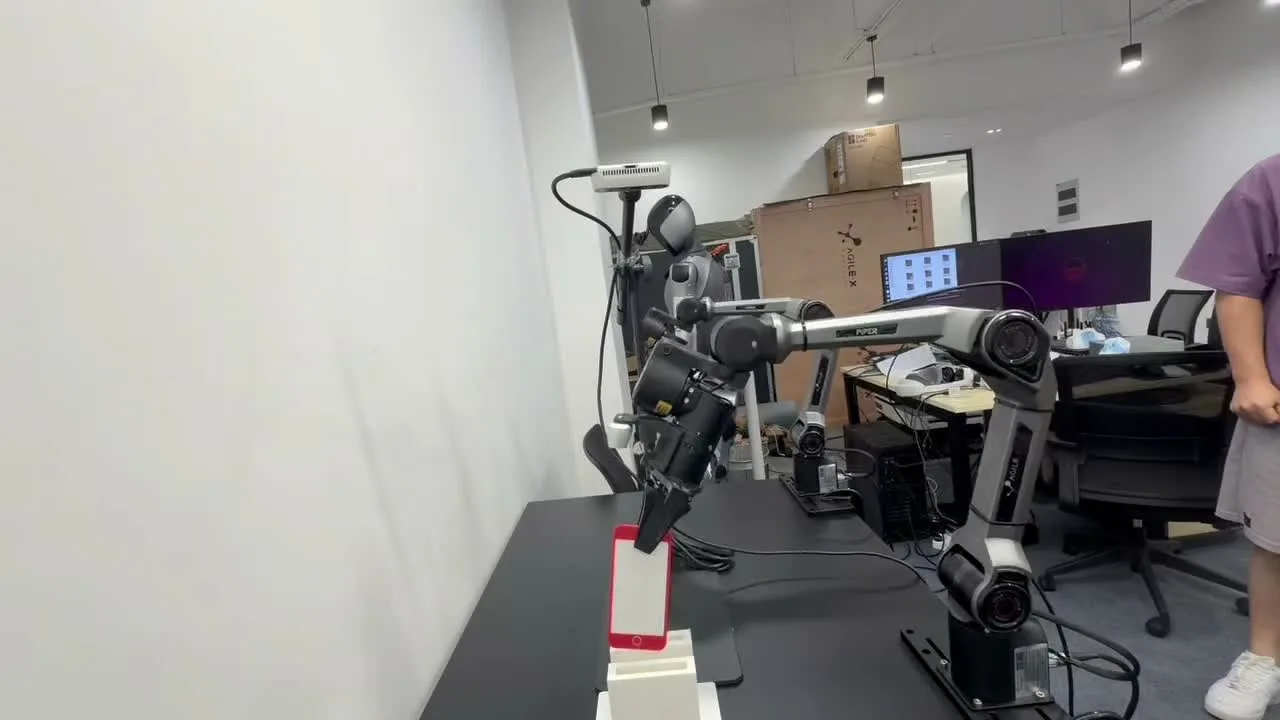
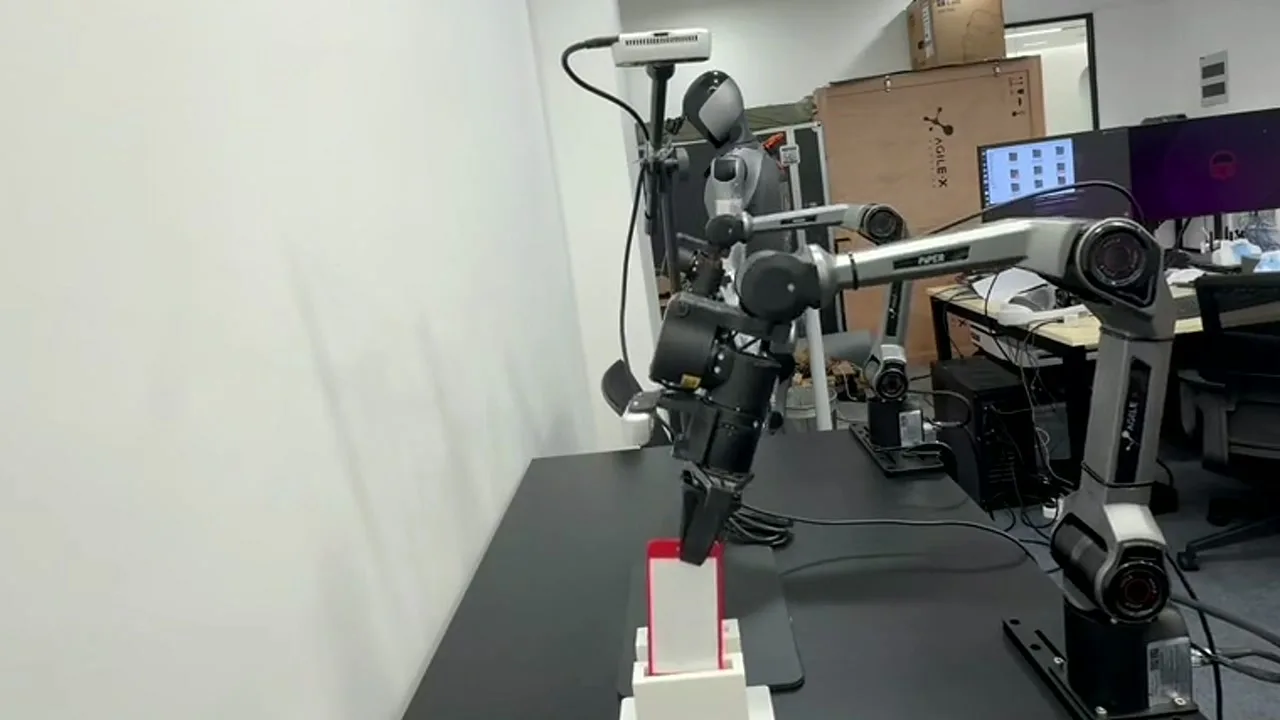
Polish demo9 presentation

diff --git a/index.html b/index.html
@@ -1551,10 +1551,10 @@
         </div>
         <div class="featured-grid">
           <a class="feature-card" href="#demo-09">
-            <div class="feature-thumb"><img src="assets/posters/demo9.webp" alt="pi*0.6 ReCap 手机插拔精细操作封面"></div>
+            <div class="feature-thumb"><img src="assets/posters/demo9.webp" alt="π0.6 ReCap 手机插拔精细操作封面"></div>
             <div class="feature-meta"><span>Demo 09</span><span>01:02</span></div>
-            <h3 data-i18n="demo9Title">pi*0.6 ReCap 手机插拔精细操作</h3>
-            <p data-i18n="demo9Desc">基于 pi*0.6 ReCap 强化学习完成手机接口插入与拔出，验证真实平台在小间隙、强接触约束下的精细操作稳定性。</p>
+            <h3 data-i18n="demo9Title">π0.6 ReCap 手机插拔精细操作</h3>
+            <p data-i18n="demo9Desc">基于 π0.6 ReCap 强化学习完成手机接口插入与拔出，验证真实平台在小间隙、强接触约束下的精细操作稳定性。</p>
           </a>
           <a class="feature-card" href="#demo-07">
             <div class="feature-thumb"><img src="assets/posters/demo7.webp" alt="Minimax 井字棋 + π0.5 棋子放置封面"></div>
@@ -2041,14 +2041,14 @@
 
           <article class="demo-card" id="demo-09">
             <div class="demo-media">
-              <video controls muted playsinline poster="assets/posters/demo9.webp" aria-label="播放 pi*0.6 ReCap 手机插拔精细操作" data-i18n-aria="demo9Aria">
+              <video controls muted playsinline poster="assets/posters/demo9.webp" aria-label="播放 π0.6 ReCap 手机插拔精细操作" data-i18n-aria="demo9Aria">
                 <source data-src="https://github.com/heliang-pu/heliang-pu.github.io/releases/download/site-media/demo9.mp4" type="video/mp4">
               </video>
             </div>
             <div class="demo-body">
               <div class="demo-meta"><span>Demo 09</span><span>01:02</span></div>
-              <h3 data-i18n="demo9Title">pi*0.6 ReCap 手机插拔精细操作</h3>
-              <p data-i18n="demo9Desc">基于 pi*0.6 ReCap 强化学习完成手机接口插入与拔出，验证真实平台在小间隙、强接触约束下的精细操作稳定性。</p>
+              <h3 data-i18n="demo9Title">π0.6 ReCap 手机插拔精细操作</h3>
+              <p data-i18n="demo9Desc">基于 π0.6 ReCap 强化学习完成手机接口插入与拔出，验证真实平台在小间隙、强接触约束下的精细操作稳定性。</p>
               <div class="demo-spec-grid">
                 <div class="demo-spec-row">
                   <span class="demo-spec-label" data-i18n="specPlatform">平台</span>
@@ -2056,7 +2056,7 @@
                 </div>
                 <div class="demo-spec-row">
                   <span class="demo-spec-label" data-i18n="specPolicy">策略</span>
-                  <strong class="demo-spec-value" data-i18n="demo9Policy">pi*0.6 ReCap 强化学习</strong>
+                  <strong class="demo-spec-value" data-i18n="demo9Policy">π0.6 ReCap 强化学习</strong>
                 </div>
                 <div class="demo-spec-row">
                   <span class="demo-spec-label" data-i18n="specMode">模式</span>
@@ -2064,7 +2064,7 @@
                 </div>
               </div>
               <div class="demo-tags">
-                <span class="demo-tag">pi*0.6 ReCap</span>
+                <span class="demo-tag">π0.6 ReCap</span>
                 <span class="demo-tag" data-i18n="demoTagRL">强化学习</span>
                 <span class="demo-tag" data-i18n="demoTagPhonePlug">手机插拔</span>
               </div>
@@ -2315,8 +2315,8 @@
         demo7Desc: '井字棋决策使用 minimax 算法，棋子移动由 π0.5 结合视觉 prompts 控制放置位置，用视觉定位补足语言跟随性差的问题。',
         demo8Title: 'π0.5 JAX 纸巾分拣',
         demo8Desc: '基于 π0.5 JAX 版本完成纸巾分拣任务，结合异步推理与 RTC 优化执行链路，提升真实平台动作连续性与响应效率。',
-        demo9Title: 'pi*0.6 ReCap 手机插拔精细操作',
-        demo9Desc: '基于 pi*0.6 ReCap 强化学习完成手机接口插入与拔出，验证真实平台在小间隙、强接触约束下的精细操作稳定性。',
+        demo9Title: 'π0.6 ReCap 手机插拔精细操作',
+        demo9Desc: '基于 π0.6 ReCap 强化学习完成手机接口插入与拔出，验证真实平台在小间隙、强接触约束下的精细操作稳定性。',
         specPlatform: '平台', specPolicy: '策略', specMode: '模式',
         demo1Platform: '双臂灵巧手平台', demo1Policy: 'π0.5 + 触觉反馈', demo1Mode: '真实平台推理',
         demo2Platform: 'RGB 视觉 + 灵巧手', demo2Policy: '关键点提取 + Retargeting', demo2Mode: '手内对指控制',
@@ -2326,7 +2326,7 @@
         demo6Platform: '傅利叶人形机器人', demo6Policy: '灵巧手抓取策略', demo6Mode: '杯状物抓取推理',
         demo7Platform: '人形机器人交互平台', demo7Policy: 'Minimax + π0.5', demo7Mode: '视觉 prompts 放置',
         demo8Platform: '双臂真实平台', demo8Policy: 'π0.5 JAX', demo8Mode: '异步推理 + RTC',
-        demo9Platform: '单臂真实平台', demo9Policy: 'pi*0.6 ReCap 强化学习', demo9Mode: '手机插拔精细任务',
+        demo9Platform: '单臂真实平台', demo9Policy: 'π0.6 ReCap 强化学习', demo9Mode: '手机插拔精细任务',
         demoTagDualArm: '双臂协作', demoTagDexterous: '灵巧手', demoTagFine: '精细操作',
         demoTagHandRgb: '手内 RGB', demoTagData: '数据采集',
         demoTagHandKeypoints: '手部关键点', demoTagRetargeting: 'Retargeting', demoTagOpposition: '手内对指',
@@ -2372,7 +2372,7 @@
         demo6Aria: '播放傅利叶人形机器人灵巧手杯状物抓取',
         demo7Aria: '播放人形机器人 minimax 井字棋与 π0.5 棋子放置',
         demo8Aria: '播放 π0.5 JAX 纸巾分拣',
-        demo9Aria: '播放 pi*0.6 ReCap 手机插拔精细操作'
+        demo9Aria: '播放 π0.6 ReCap 手机插拔精细操作'
       },
       en: {
         /* meta */
@@ -2459,8 +2459,8 @@
         demo7Desc: 'Tic-tac-toe decisions use the minimax algorithm, while π0.5 uses visual prompts to control piece placement, compensating for weak language-following behavior with visual localization.',
         demo8Title: 'π0.5 JAX Tissue Sorting',
         demo8Desc: 'A tissue-sorting task built with the JAX version of π0.5, using async inference and RTC to optimize the execution loop for smoother real-platform actions and faster response.',
-        demo9Title: 'pi*0.6 ReCap Phone Plug-Unplug Manipulation',
-        demo9Desc: 'A phone plug-unplug fine manipulation task trained with pi*0.6 ReCap reinforcement learning, validating stable execution under tight clearance and contact-rich constraints.',
+        demo9Title: 'π0.6 ReCap Phone Plug-Unplug Manipulation',
+        demo9Desc: 'A phone plug-unplug fine manipulation task trained with π0.6 ReCap reinforcement learning, validating stable execution under tight clearance and contact-rich constraints.',
         specPlatform: 'Platform', specPolicy: 'Policy', specMode: 'Mode',
         demo1Platform: 'Dual-arm dexterous-hand platform', demo1Policy: 'π0.5 + tactile feedback', demo1Mode: 'Real-platform inference',
         demo2Platform: 'RGB vision + dexterous hand', demo2Policy: 'Keypoint extraction + retargeting', demo2Mode: 'In-hand finger opposition',
@@ -2470,7 +2470,7 @@
         demo6Platform: 'Fourier humanoid robot', demo6Policy: 'Dexterous-hand grasp policy', demo6Mode: 'Cup-grasp inference',
         demo7Platform: 'Humanoid interaction platform', demo7Policy: 'Minimax + π0.5', demo7Mode: 'Visual-prompt placement',
         demo8Platform: 'Dual-arm real platform', demo8Policy: 'π0.5 JAX', demo8Mode: 'Async inference + RTC',
-        demo9Platform: 'Single-arm real platform', demo9Policy: 'pi*0.6 ReCap reinforcement learning', demo9Mode: 'Phone plug-unplug fine task',
+        demo9Platform: 'Single-arm real platform', demo9Policy: 'π0.6 ReCap reinforcement learning', demo9Mode: 'Phone plug-unplug fine task',
         demoTagDualArm: 'Dual-Arm', demoTagDexterous: 'Dexterous Hand', demoTagFine: 'Fine Manipulation',
         demoTagHandRgb: 'In-Hand RGB', demoTagData: 'Data Collection',
         demoTagHandKeypoints: 'Hand Keypoints', demoTagRetargeting: 'Retargeting', demoTagOpposition: 'Finger Opposition',
@@ -2516,7 +2516,7 @@
         demo6Aria: 'Play Fourier humanoid cup grasping with a dexterous hand demo',
         demo7Aria: 'Play humanoid minimax tic-tac-toe and π0.5 piece placement demo',
         demo8Aria: 'Play π0.5 JAX tissue sorting demo',
-        demo9Aria: 'Play pi*0.6 ReCap phone plug-unplug manipulation demo'
+        demo9Aria: 'Play π0.6 ReCap phone plug-unplug manipulation demo'
       }
     };
 